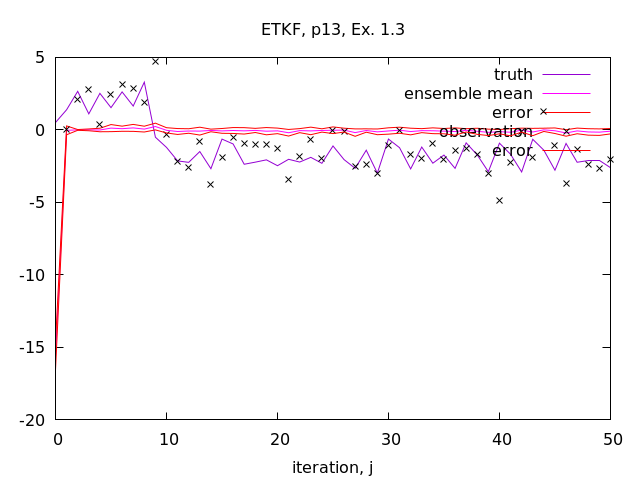
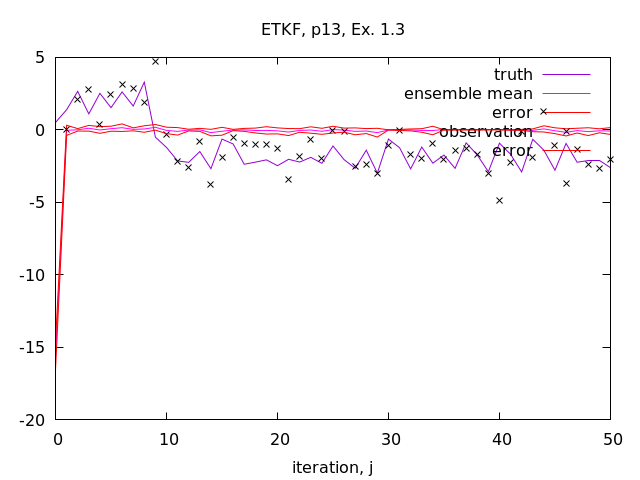
Use eigen decomp in etkf.

Changed region(s): [[0.0938, 0.25, 0.9688, 0.2812]]

diff --git a/na-discrete-filtering/src/kalman/etkf.rs b/na-discrete-filtering/src/kalman/etkf.rs
@@ -1,10 +1,15 @@
 
 use nd::{Array, ArrayBase, ArrayView, ArrayViewMut, Ix2, Ix1,
          Axis};
+use nd::linalg::general_mat_mul;
+
 use linxal::types::{LinxalScalar};
 use linxal::solve_linear::general::SolveLinear;
 use linxal::solve_linear::symmetric::SymmetricSolveLinear;
+use linxal::eigenvalues::general::Eigen;
+use linxal::eigenvalues::types::Solution;
 use num_traits::{NumCast, One, Zero, Float};
+use num_complex::Complex;
 use rand::Rng;
 use rand::distributions::IndependentSample;
 use rand::distributions::normal::Normal;
@@ -56,7 +61,8 @@ pub struct OwnedWorkspace<E>
   transformed_centered_ensemble: Array<E, Ix2>,
 }
 impl<'a, E> Workspace<Init<'a, E>> for OwnedWorkspace<E>
-  where E: LinxalScalar + CholeskyLDL + From<f64> + NumCast + SolveLinear,
+  where E: LinxalScalar + From<f64> + NumCast + SolveLinear + Eigen,
+        <E as Eigen>::Solution: SolutionHelper<E, Complex<<E as LinxalScalar>::RealPart>>,
         E: Add<E, Output = E> + Sub<E, Output = E>,
         E: AddAssign<E> + SubAssign<E>,
         E: Add<<E as LinxalScalar>::RealPart, Output = E> + Sub<<E as LinxalScalar>::RealPart, Output = E>,
@@ -88,13 +94,10 @@ impl<'a, E> Workspace<Init<'a, E>> for OwnedWorkspace<E>
 
     let mut ensembles = ArrayBase::zeros((ensemble_count, n));
 
-    let (_, d) = CholeskyLDL::compute(&initial_covariance, Symmetric::Lower)
-      .expect("cholesky factorization failed");
-
-    let d: Vec<E> = d.into_raw_vec();
-    let scale: E = d.into_iter()
-      .filter(|v| !v.is_zero() )
-      .fold(E::one(), |p, v| p * v.mag() );
+    let sol = Eigen::compute_into(initial_covariance.to_owned(),
+                                  false, false)
+      .expect("can't eigendecomp initial_covariance");
+    let d = sol.values();
 
     {
       let mut first = ensembles.view_mut();
@@ -103,14 +106,14 @@ impl<'a, E> Workspace<Init<'a, E>> for OwnedWorkspace<E>
         for i in 0..ensemble_count {
           for j in 0..n {
             r[[i,j]] = From::from(normal.ind_sample(&mut rand));
+            r[[i,j]] *= d[j].re;
           }
         }
 
         r
       };
-      r.mapv_inplace(|v| v * scale);
-      let t = &initial_mean.broadcast((ensemble_count, n)).unwrap() + &r;
-      first.assign(&t);
+      first.assign(&initial_mean.broadcast((ensemble_count, n)).unwrap());
+      first.scaled_add(One::one(), &r);
     }
 
     let ec_e: E = NumCast::from(ensemble_count).unwrap();
@@ -182,10 +185,30 @@ pub struct Algo<'a, E>
   observation_operator: ArrayView<'a, E, Ix2>,
 }
 
+pub trait SolutionHelper<EV, IV> {
+  fn values(self) -> Array<IV, Ix1>;
+  fn values_and_left_vectors(&mut self) -> (ArrayViewMut<IV, Ix1>, ArrayView<EV, Ix2>);
+}
+
+impl<T> SolutionHelper<T, Complex<<T as LinxalScalar>::RealPart>> for Solution<T, Complex<<T as LinxalScalar>::RealPart>>
+  where T: Float + LinxalScalar,
+{
+  fn values(self) -> Array<Complex<<T as LinxalScalar>::RealPart>, Ix1> {
+    let Solution {
+      values, ..
+    } = self;
+    values
+  }
+  fn values_and_left_vectors(&mut self) -> (ArrayViewMut<Complex<<T as LinxalScalar>::RealPart>, Ix1>, ArrayView<T, Ix2>) {
+    (self.values.view_mut(), self.left_vectors.as_ref().unwrap().view())
+  }
+}
+
 impl<'init, 'state, E, M, Ob> Algorithm<M, Ob> for Algo<'init, E>
   where M: ::Model<E>,
         Ob: ::Observer<E>,
-        E: LinxalScalar + CholeskyLDL + From<f64> + NumCast + SolveLinear + SymmetricSolveLinear + Send + Sync,
+        E: LinxalScalar + CholeskyLDL + From<f64> + NumCast + SolveLinear + SymmetricSolveLinear + Send + Sync + Eigen + Float,
+        <E as Eigen>::Solution: SolutionHelper<E, Complex<<E as LinxalScalar>::RealPart>>,
         ::rayon::par_iter::reduce::SumOp: ::rayon::par_iter::reduce::ReduceOp<E>,
         <E as LinxalScalar>::RealPart: Send + Sync,
         E: Add<E, Output = E> + Sub<E, Output = E>,
@@ -224,10 +247,6 @@ impl<'init, 'state, E, M, Ob> Algorithm<M, Ob> for Algo<'init, E>
                -> Result<(), ()>
   {
     use linxal::solve_linear::SolveLinear;
-    use linxal::factorization::cholesky::*;
-    use linxal::types::Symmetric;
-
-    use nd::linalg::general_mat_mul;
 
     let n = workspace.mean.dim();
     let obs_size = self.observation_operator.dim().0;
@@ -257,7 +276,7 @@ impl<'init, 'state, E, M, Ob> Algorithm<M, Ob> for Algo<'init, E>
       let mut dest = workspace.centered_ensemble.column_mut(i);
       dest.assign(&ensemble);
       dest -= &estimator;
-      dest.mapv_inplace(|v| v / s );
+      dest.mapv_inplace(|v| v / s);
     }
 
     {
@@ -286,9 +305,9 @@ impl<'init, 'state, E, M, Ob> Algorithm<M, Ob> for Algo<'init, E>
         left_ext
           .axis_iter_mut(Axis(1))
           .into_par_iter()
-          .zip(self.gamma.axis_iter(Axis(0)).into_par_iter().map(|v| v[()] * v[()] ))
+          .zip(self.gamma.axis_iter(Axis(0)).into_par_iter().map(|v| v[()] * v[()]))
           .for_each(|(mut l, gamma)| {
-            l.mapv_inplace(|v| v / gamma );
+            l.mapv_inplace(|v| v / gamma);
           });
 
         general_mat_mul(One::one(),
@@ -308,31 +327,47 @@ impl<'init, 'state, E, M, Ob> Algorithm<M, Ob> for Algo<'init, E>
         // copy `t` to `z`.
         z.assign(&t);
         for i in 0..z.dim().0 {
-          z[[i,i]] += One::one();
+          z[[i, i]] += One::one();
         }
-      }
+        // Now, invert t and then find the eigenvalues.
+        t.fill(Zero::zero());
+        for i in 0..self.ensemble_count {
+          t[[i, i]] = One::one();
+        }
+        SolveLinear::compute_multi_into(z.view_mut(),
+                                        t.view_mut())
+          .expect("inversion failed (singular T_j? -- this is impossible(TM))");
 
-      // Now, invert t and then factorize via cholesky
-      let mut t = workspace.sqrt_transform.view_mut();
-      t.fill(Zero::zero());
-      for i in 0..self.ensemble_count {
-        t[[i, i]] = One::one();
-      }
-      SolveLinear::compute_multi_into(z.view_mut(),
-                                      //Symmetric::Upper,
-                                      t.view_mut())
-        .expect("inversion failed (singular T_j? -- this is impossible(TM))");
-
-      // the inverse is now in `t`. now we upper cholesky factorize `t`:
-      match Cholesky::compute_into(t.view_mut(),
-                                   Symmetric::Upper) {
-        Err(e) => {
-          println!("{:?}: t = {:?}", e, t);
-          panic!();
-        },
-        _ => {},
+        let mut sol = Eigen::compute_into(t.to_owned(),
+                                          true, false)
+          .expect("can't eigendecomp");
+        let (d, v) = sol.values_and_left_vectors();
+        //println!("step = {}, eigenvalues = {:?}", current_step, d);
+        let d = d.map(|v| {
+          if v.re < Zero::zero() {
+            Zero::zero()
+          } else {
+            v.re
+          }
+        });
+        t.fill(Zero::zero());
+        t.axis_iter_mut(Axis(1))
+          .into_par_iter()
+          .zip(v.axis_iter(Axis(1)).into_par_iter())
+          .zip(d.axis_iter(Axis(0)).into_par_iter())
+          .for_each(|((mut t, v), lambda)| {
+            t.assign(&v);
+            t.mapv_inplace(|s| {
+              if !lambda[()].is_zero() {
+                s / lambda[()]
+              } else {
+                Zero::zero()
+              }
+            });
+          });
       }
     }
+
 
     // consider workspace.sqrt_transform_intermediate to be garbage
     // from here on.
@@ -346,7 +381,6 @@ impl<'init, 'state, E, M, Ob> Algorithm<M, Ob> for Algo<'init, E>
                       Zero::zero(),
                       &mut t);
     }
-
 
     // analyze
     {
@@ -377,7 +411,7 @@ impl<'init, 'state, E, M, Ob> Algorithm<M, Ob> for Algo<'init, E>
       let mut s = workspace.s.view_mut();
       s.fill(Zero::zero());
       for i in 0..self.observation_operator.dim().0 {
-        s[[i,i]] = E::one() * self.gamma[i] * self.gamma[i];
+        s[[i, i]] = E::one() * self.gamma[i] * self.gamma[i];
       }
 
       general_mat_mul(One::one(),

diff --git a/na-discrete-filtering/src/lib.rs b/na-discrete-filtering/src/lib.rs
@@ -4,6 +4,7 @@ extern crate ndarray as nd;
 extern crate linxal;
 extern crate rand;
 extern crate num_traits;
+extern crate num_complex;
 extern crate rayon;
 extern crate ndarray_parallel as nd_par;
 
